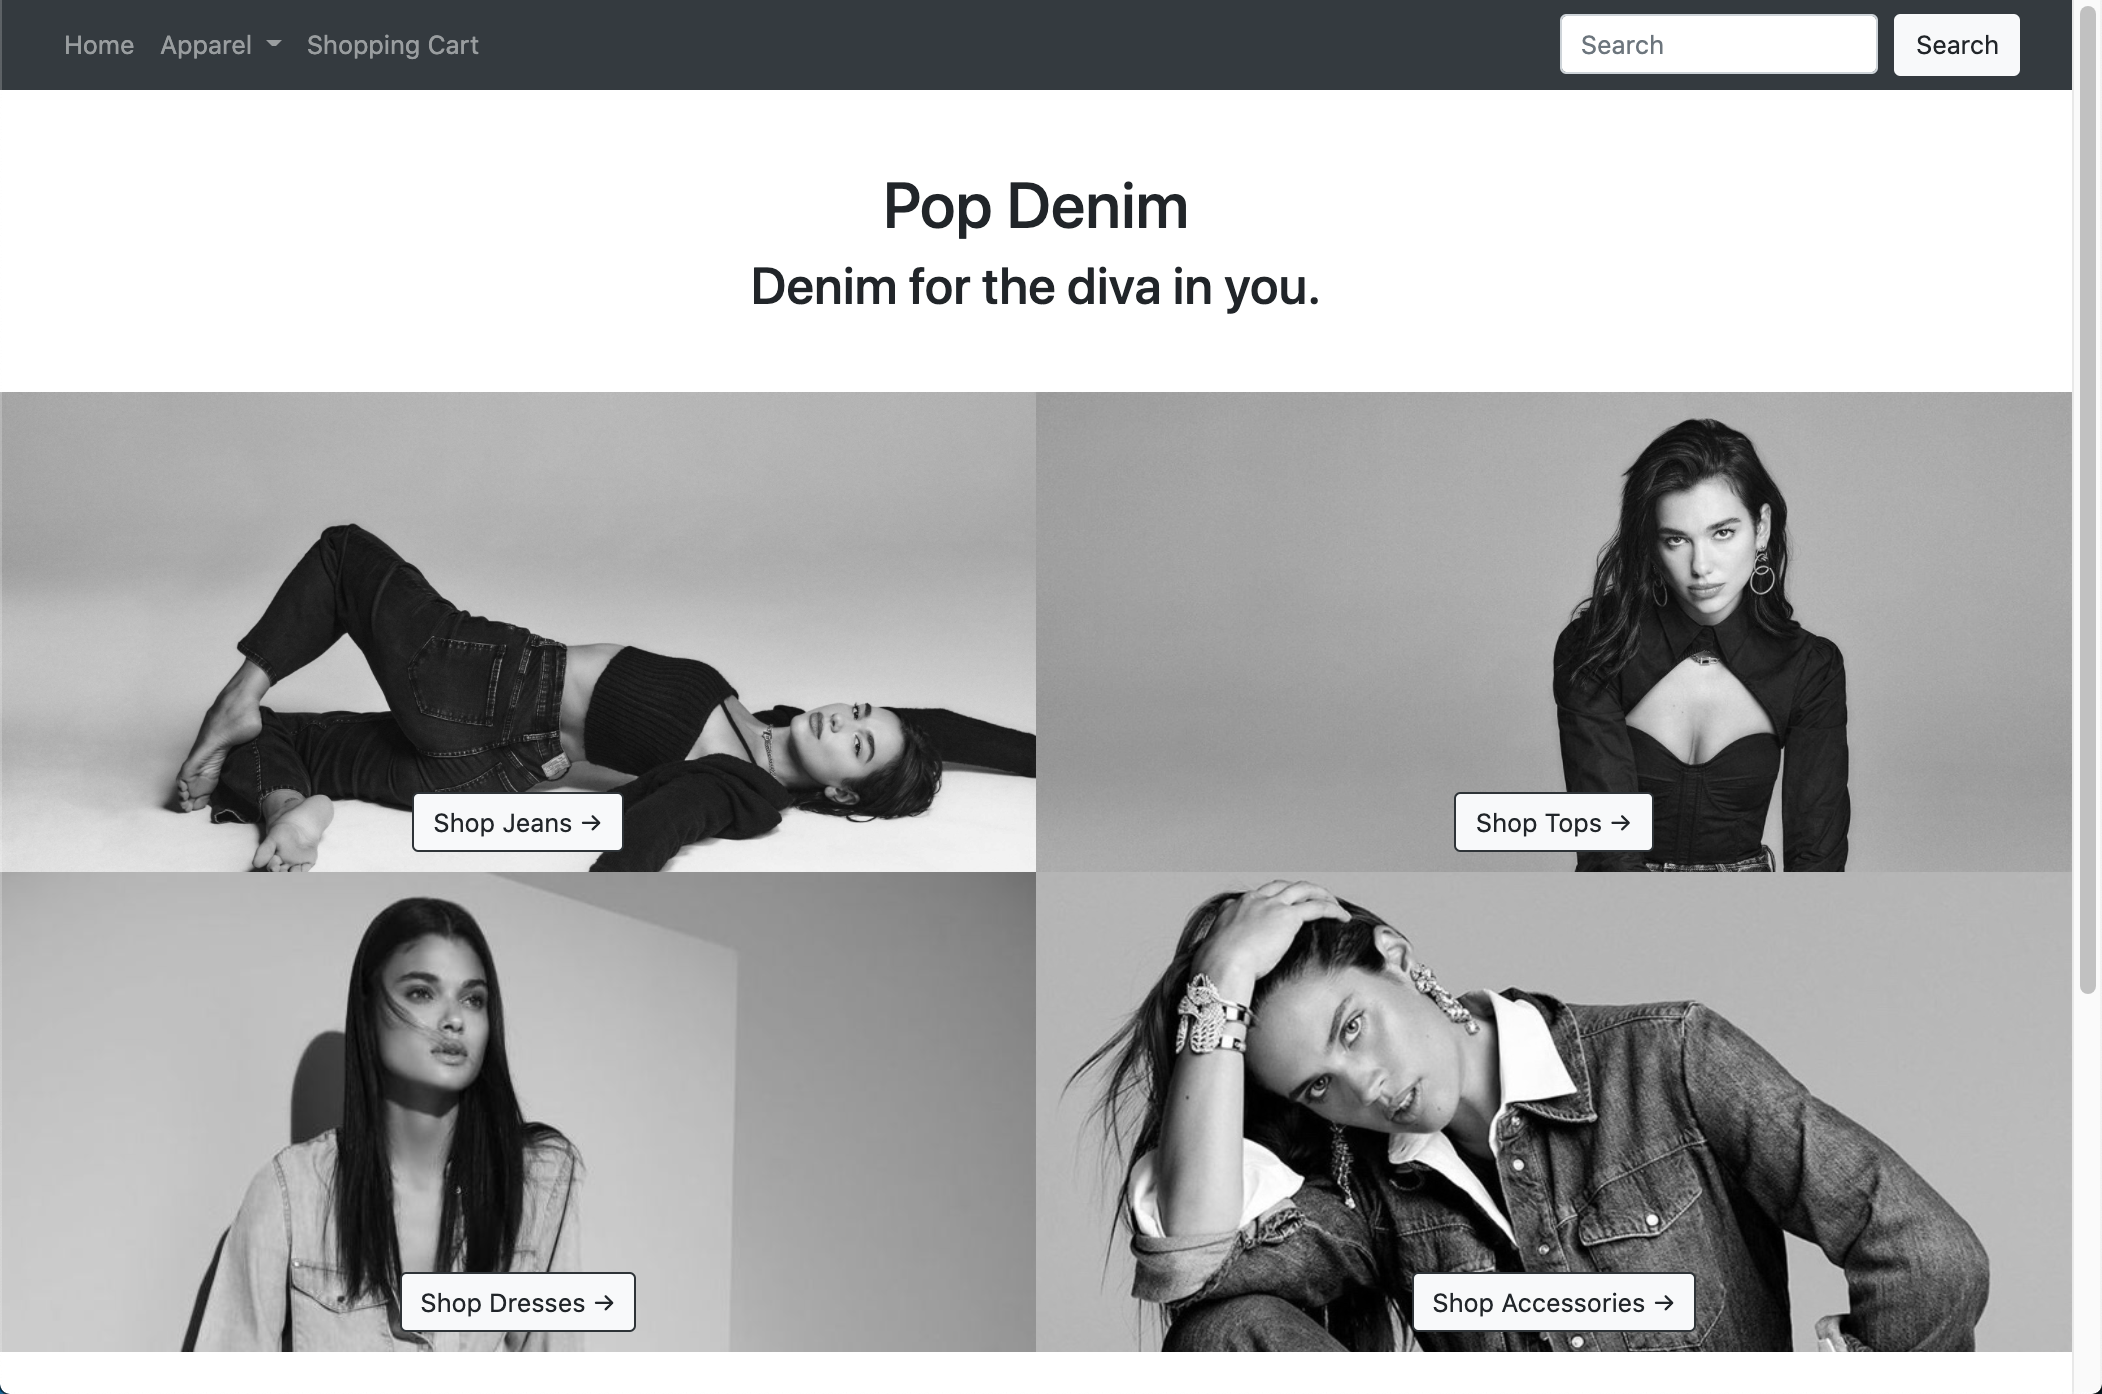
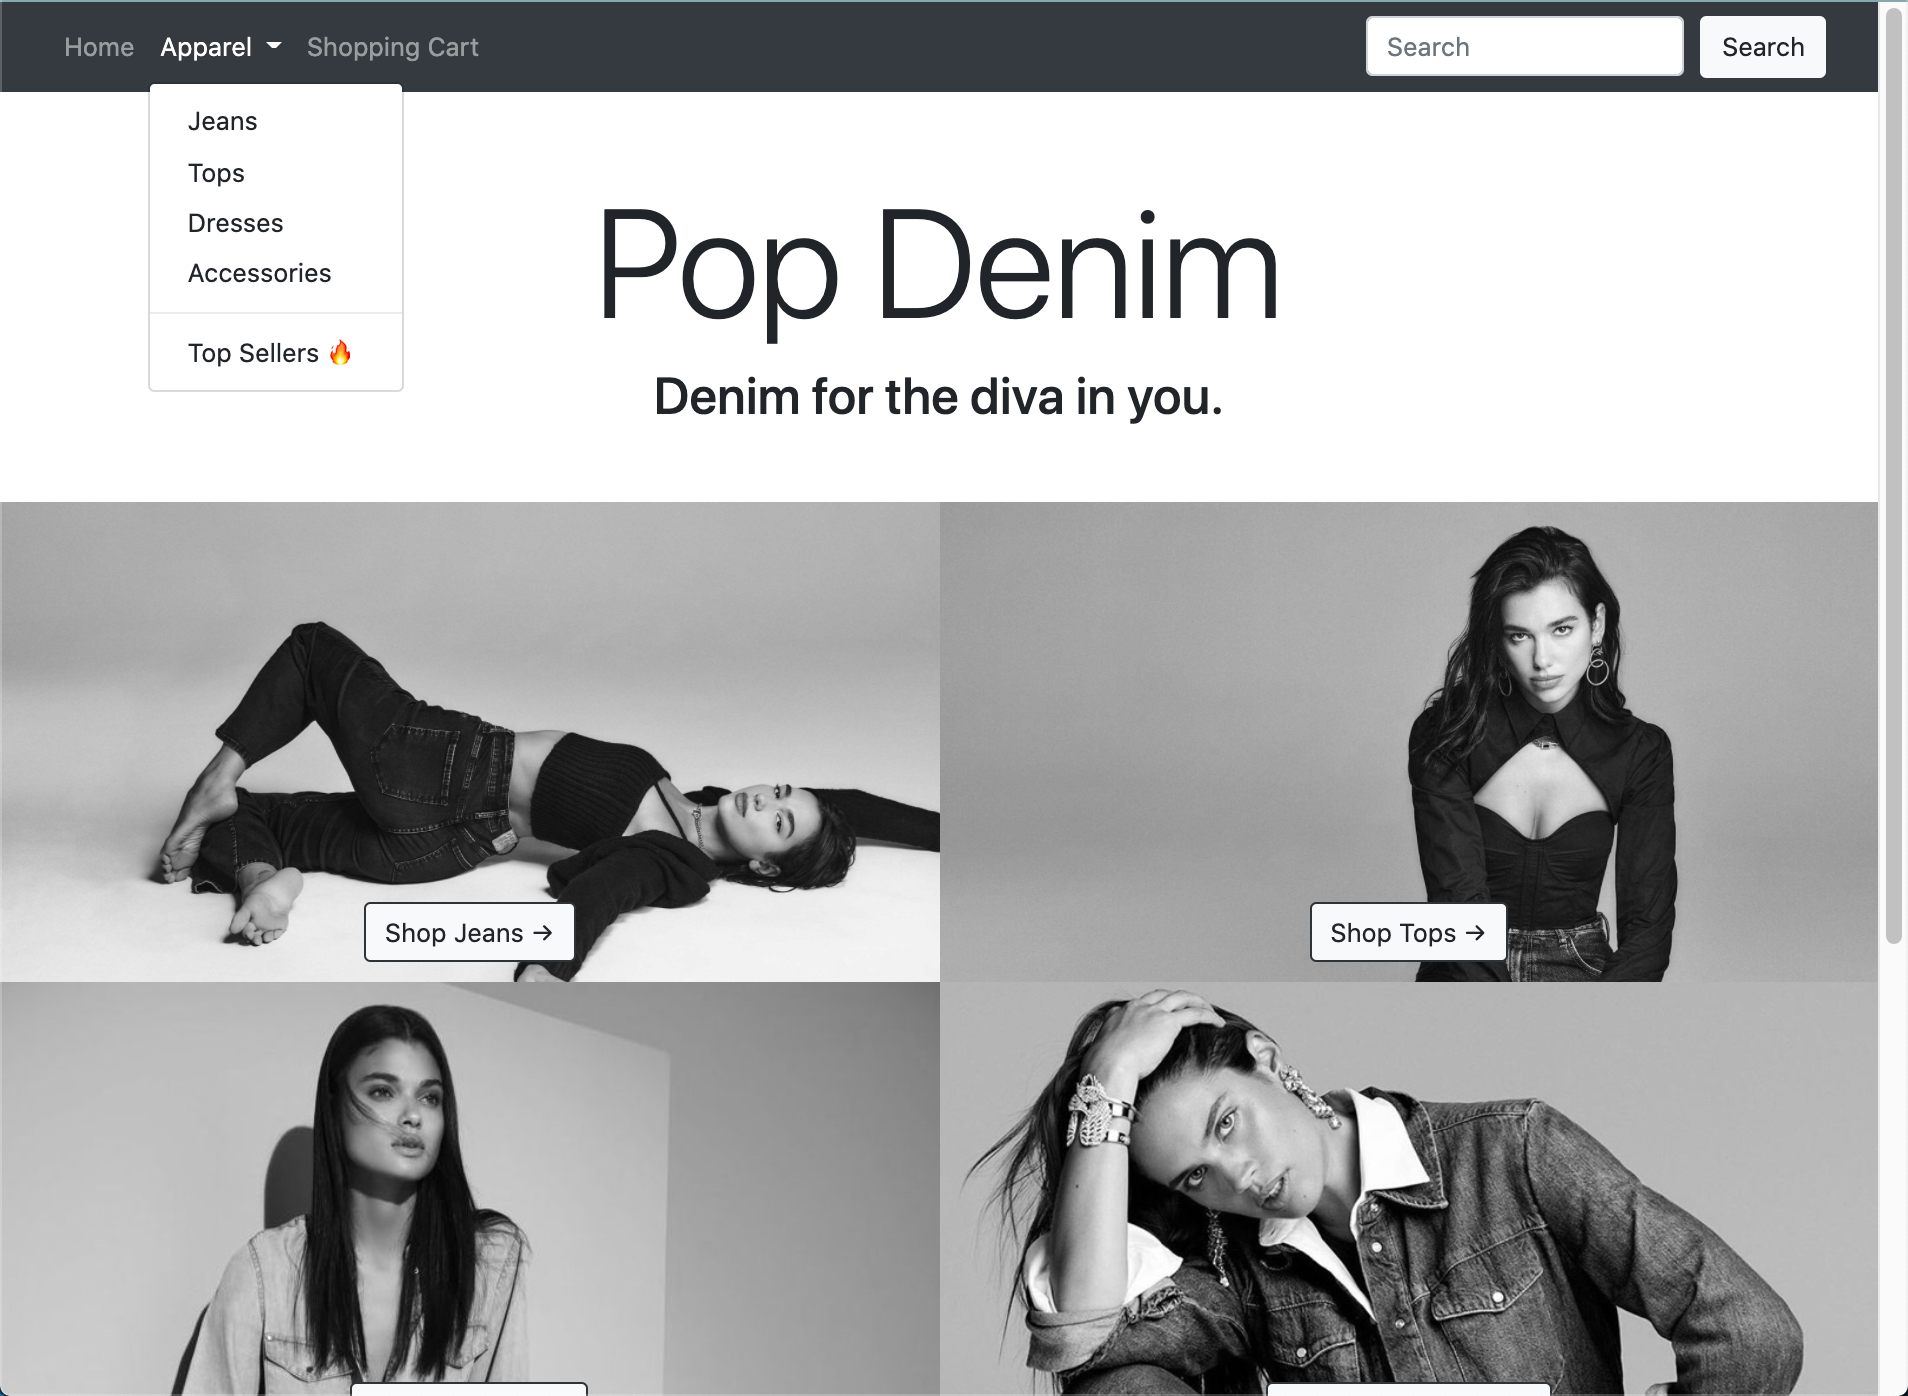
reorganize img files, adjust font styles

diff --git a/scss/style.css b/scss/style.css
@@ -7,22 +7,22 @@ body {
 }
 
 #jeans {
-    background: url("/dua-90s-black-jeans.jpg");
+    background: url("/Pictures/dua-90s-black-jeans.jpg");
     background-size: cover;
 }
 
 #tops {
-    background: url("/dua-cutout-top.jpg");
+    background: url("/Pictures/dua-cutout-top.jpg");
     background-size: cover;
 }
 
 #dresses {
-    background: url("/jean-dress.jpg");
+    background: url("/Pictures/jean-dress.jpg");
     background-size: cover;
 }
 
 #accessories {
-    background: url("/jumpsuit-jewelry.jpg");
+    background: url("/Pictures/jumpsuit-jewelry.jpg");
     background-size: cover;
 }
 
@@ -58,4 +58,25 @@ body {
 
 #signupModal {
     /* TODO: colors */
+}
+
+/* Vertically centers the modal by adding padding to the transparent fade area around the dialog box. */
+.modal-dialog {
+    padding-top: 20%;
+}
+
+.modal-content {
+    /* background: url("/Pictures/denim-jacket-color.jpg");
+    background-size: cover; */
+}
+
+.modal-header {
+    padding-bottom: 5%;
+    /* font-size: 20px; */
+}
+
+.modal-body {
+    /* padding-top: 10%; */
+    /* padding-bottom: 10%; */
+    /* font-size: 1.5rem; */
 }

diff --git a/index.html b/index.html
@@ -66,7 +66,7 @@
 
       <div class="header my-5">
       <div>
-      <h1>Pop Denim</h1>
+      <h1 class="display-1">Pop Denim</h1>
       </div>
 
       <div><h2>Denim for the diva in you.</h2></div>
@@ -149,13 +149,13 @@
           </div>
         
     </div>
-  
+    </div>
   </div>
 
 
     <!-- Modal: Signup popup. -->
-  <!-- <div class="modal fade modal-dialog-centered" id="signupModal" tabindex="-1" aria-labelledby="signupModalLabel" aria-hidden="true">
-    <div class="modal-dialog">
+  <div class="modal fade modal-dialog-centered" id="signupModal" tabindex="-1" aria-labelledby="signupModalLabel" aria-hidden="true">
+    <div class="modal-dialog modal-md" style="height:300px;">
       <div class="modal-content">
         <div class="modal-header">
           <h5 class="modal-title" id="signupModalLabel">It's not a sale if you miss it!</h5>
@@ -179,7 +179,7 @@
         </div>
       </div>
     </div>
-  </div> -->
+  </div>
 
   <!-- TODO: Change and test color themes. -->
   <!-- <p class="text-primary">.text-primary</p>
